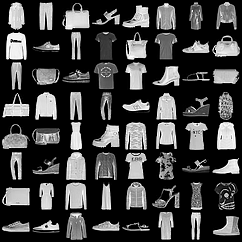
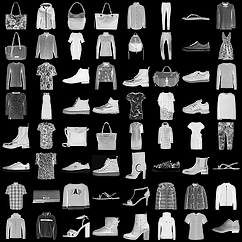
Enhance autograd error tracing by enabling anomaly detection in run_conditional_gan.py and run_gan.py

diff --git a/OtherUniversityLecturs/CS236_DGM/HW3_GANs/src/run_conditional_gan.py b/OtherUniversityLecturs/CS236_DGM/HW3_GANs/src/run_conditional_gan.py
@@ -54,6 +54,9 @@ d = codebase.network.ConditionalDiscriminator().to(device)
 z_test = torch.randn(10, 1, g.dim_z).repeat(1, 10, 1).reshape(100, g.dim_z).to(device)
 y_test = torch.arange(10).repeat(10).to(device)
 
+# enable anomaly detection to get accurate stack traces for autograd errors
+torch.autograd.set_detect_anomaly(True)
+
 g_optimizer = torch.optim.Adam(g.parameters(), 1e-3, betas=(0.5, 0.999))
 d_optimizer = torch.optim.Adam(d.parameters(), 1e-3, betas=(0.5, 0.999))
 

diff --git a/OtherUniversityLecturs/CS236_DGM/HW3_GANs/src/run_gan.py b/OtherUniversityLecturs/CS236_DGM/HW3_GANs/src/run_gan.py
@@ -41,6 +41,9 @@ g = codebase.network.Generator().to(device)
 d = codebase.network.Discriminator().to(device)
 z_test = torch.randn(100, g.dim_z).to(device)
 
+# enable anomaly detection to trace in-place op errors
+torch.autograd.set_detect_anomaly(True)
+
 g_optimizer = torch.optim.Adam(g.parameters(), 1e-3, betas=(0.5, 0.999))
 d_optimizer = torch.optim.Adam(d.parameters(), 1e-3, betas=(0.5, 0.999))
 
